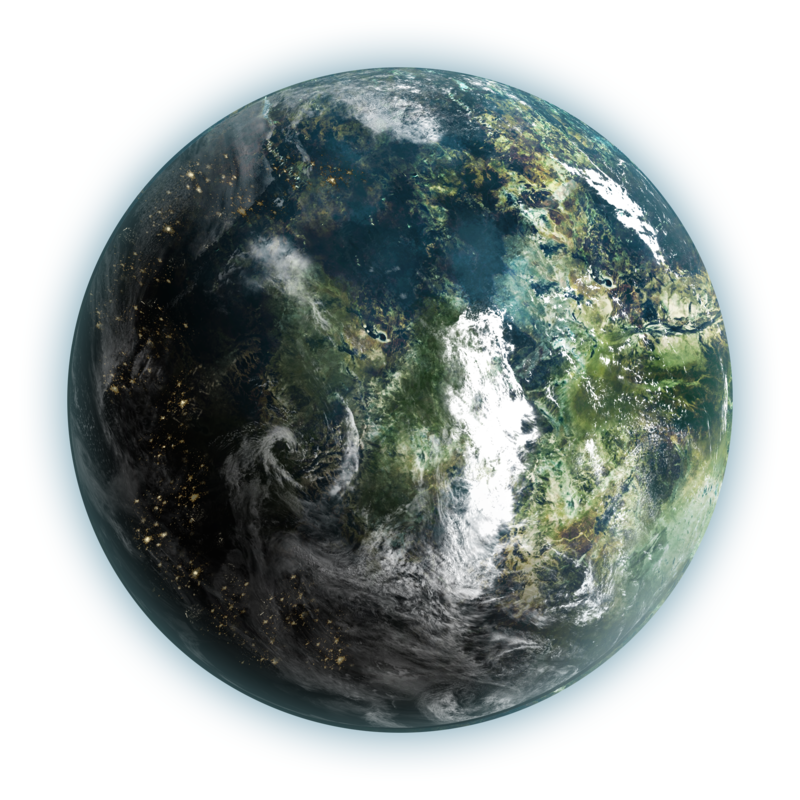
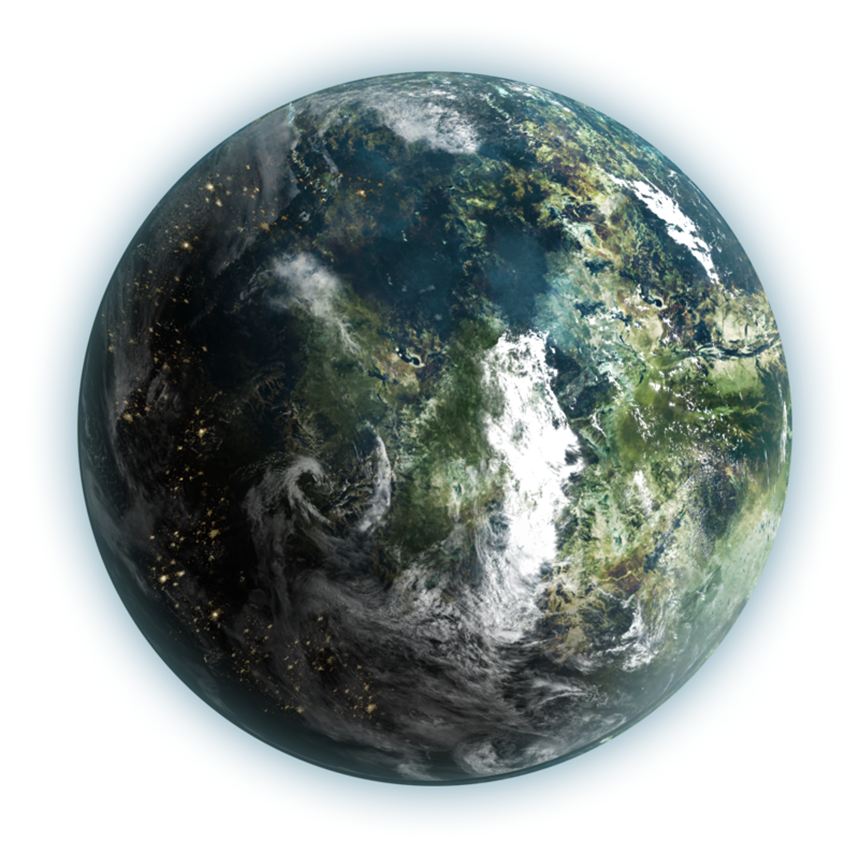
lower res images
+ added links

diff --git a/index.html b/index.html
@@ -13,9 +13,9 @@
     <div class="menu">
         <div class="box0">
             <ul>
-            <li>ABOUT</li>
-            <li>WORK</li>
-            <li>CONTACT</li>
+            <li><a href="#">ABOUT</a></li>
+            <li><a href="#">WORK</a></li>
+            <li><a href="#">CONTACT</a></li>
         </ul>
     </div>
     </div>
@@ -28,7 +28,7 @@
             <p>Lorem ipsum dolor sit, amet consectetur adipisicing elit. Inventore nisi est nulla ex ea fugit aliquid quis pariatur excepturi iusto veritatis doloremque, alias vitae aut a debitis hic magni earum ipsum tempore? Itaque tempora ipsum tempore rerum voluptas officiis id saepe doloribus esse? Architecto, molestiae, assumenda deserunt sapiente nulla facere adipisci officia veritatis deleniti quisquam dolorum repudiandae cumque ipsa sint!</p>
         </div>
         <div class="box3">
-            <button>VIEW</button>
+            <button><a href="#">VIEW</a></button>
         </div>
     </div>
     </div>
@@ -41,13 +41,13 @@
             <p>Lorem ipsum dolor sit amet consectetur, adipisicing elit. Ab enim beatae facilis molestiae blanditiis dolore tempore laboriosam illum debitis unde quae nulla velit possimus delectus doloremque sed rerum sint consectetur, earum ea? Vitae repellat, corporis deserunt quod porro quasi, ipsam voluptatem, numquam inventore eum laboriosam impedit harum blanditiis optio at!</p>
         </div>
         <div class="box6">
-            <button>MORE</button>
+            <button><a href="#">MORE</a></button>
         </div>
     </div>
 </div>
 
 <div class="colors">
-    <p>CLICK</p>
+    <p><a href="#">CLICK</a></p>
 </div>
 <div>
     <img src="planet2.png" class="planet2">

diff --git a/style.css b/style.css
@@ -1,5 +1,5 @@
 html {
-    min-height: 110%;
+    min-height: 100%;
 }
 body {
     margin: 0;
@@ -30,9 +30,16 @@ body {
 .menu li {
     display: inline;
     margin: 0 2.5rem 0 2.5rem;
-    color: #424874;
     letter-spacing: 2px;
     font-size: 0.9rem;
+}
+.menu a {
+    color: #424874;
+    text-decoration: none;
+    transition: 0.5s;
+}
+.menu a:hover {
+    color: #8186ad;
 }
 
 
@@ -88,10 +95,14 @@ body {
     height: 2rem;
     letter-spacing: 3px;
     font-size: 0.9rem;
-    color: #42487452;
     text-align: center;
     margin-bottom: 15px;
 }
+.box3 a, .box6 a {
+    color: #42487452;
+    text-decoration: none;
+}
+
 
 .container2 {
     display: grid;
@@ -165,6 +176,9 @@ body {
     letter-spacing: 2px;
     font-size: 0.9rem;
     padding-left: 10px;
+}
+.colors a {
+    text-decoration: none;
     color: #ffffff83;
 }
 
@@ -243,6 +257,10 @@ body {
     }
     .box4 {
         text-align: center;
+    }
+
+    .colors {
+        top: 51%;
     }
 
 
